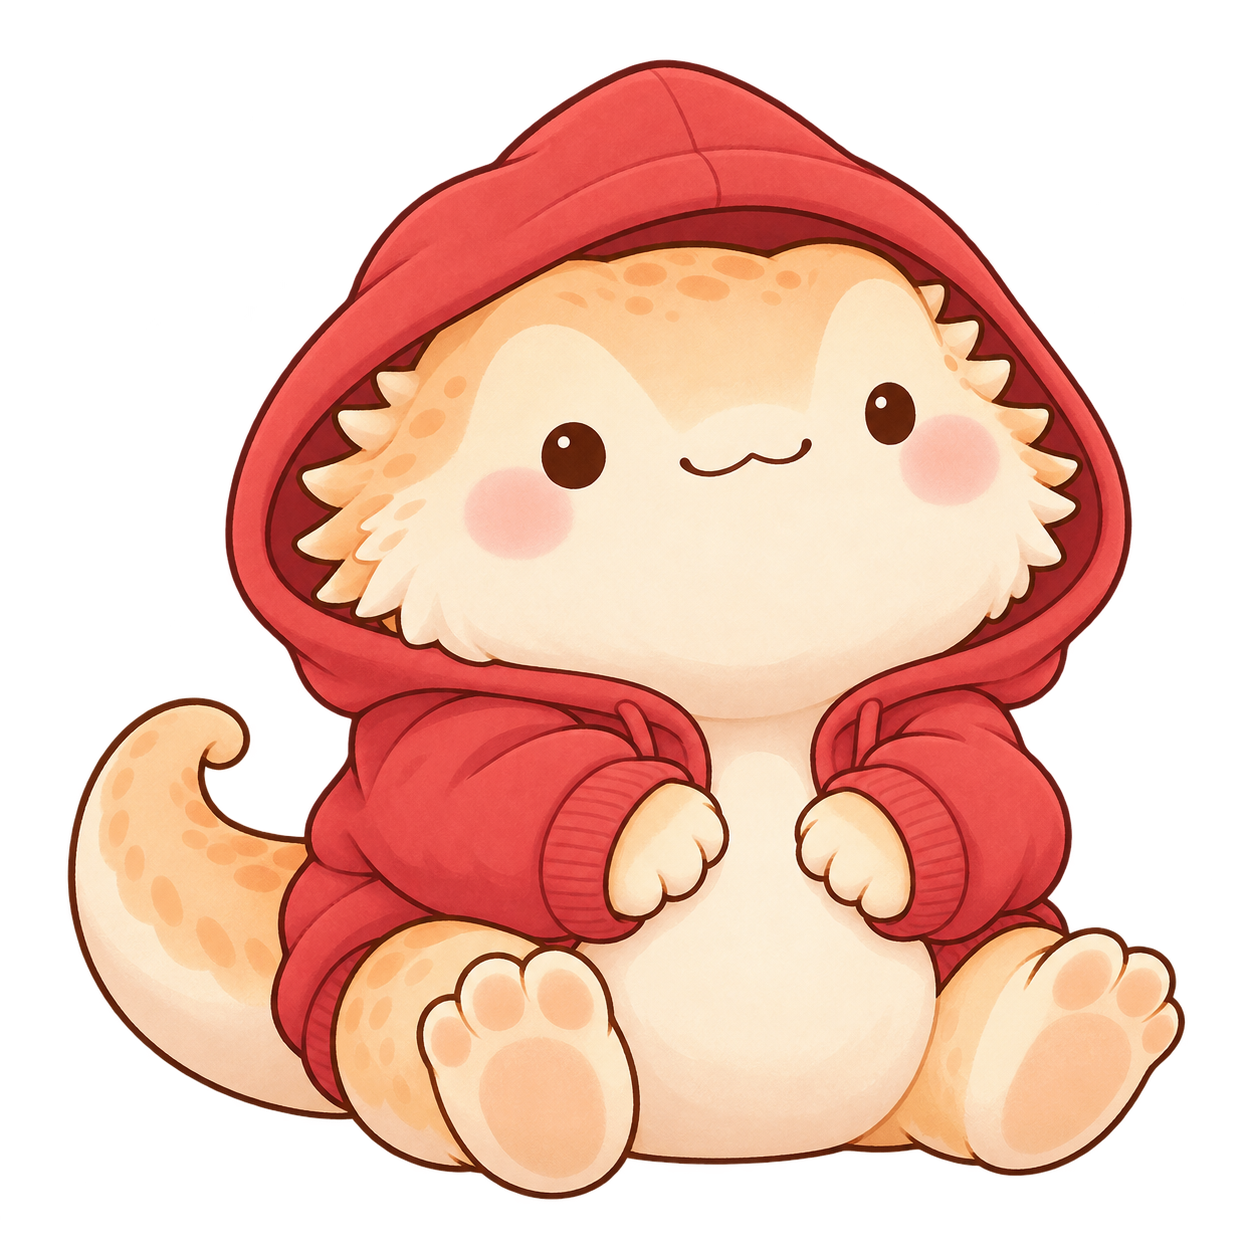
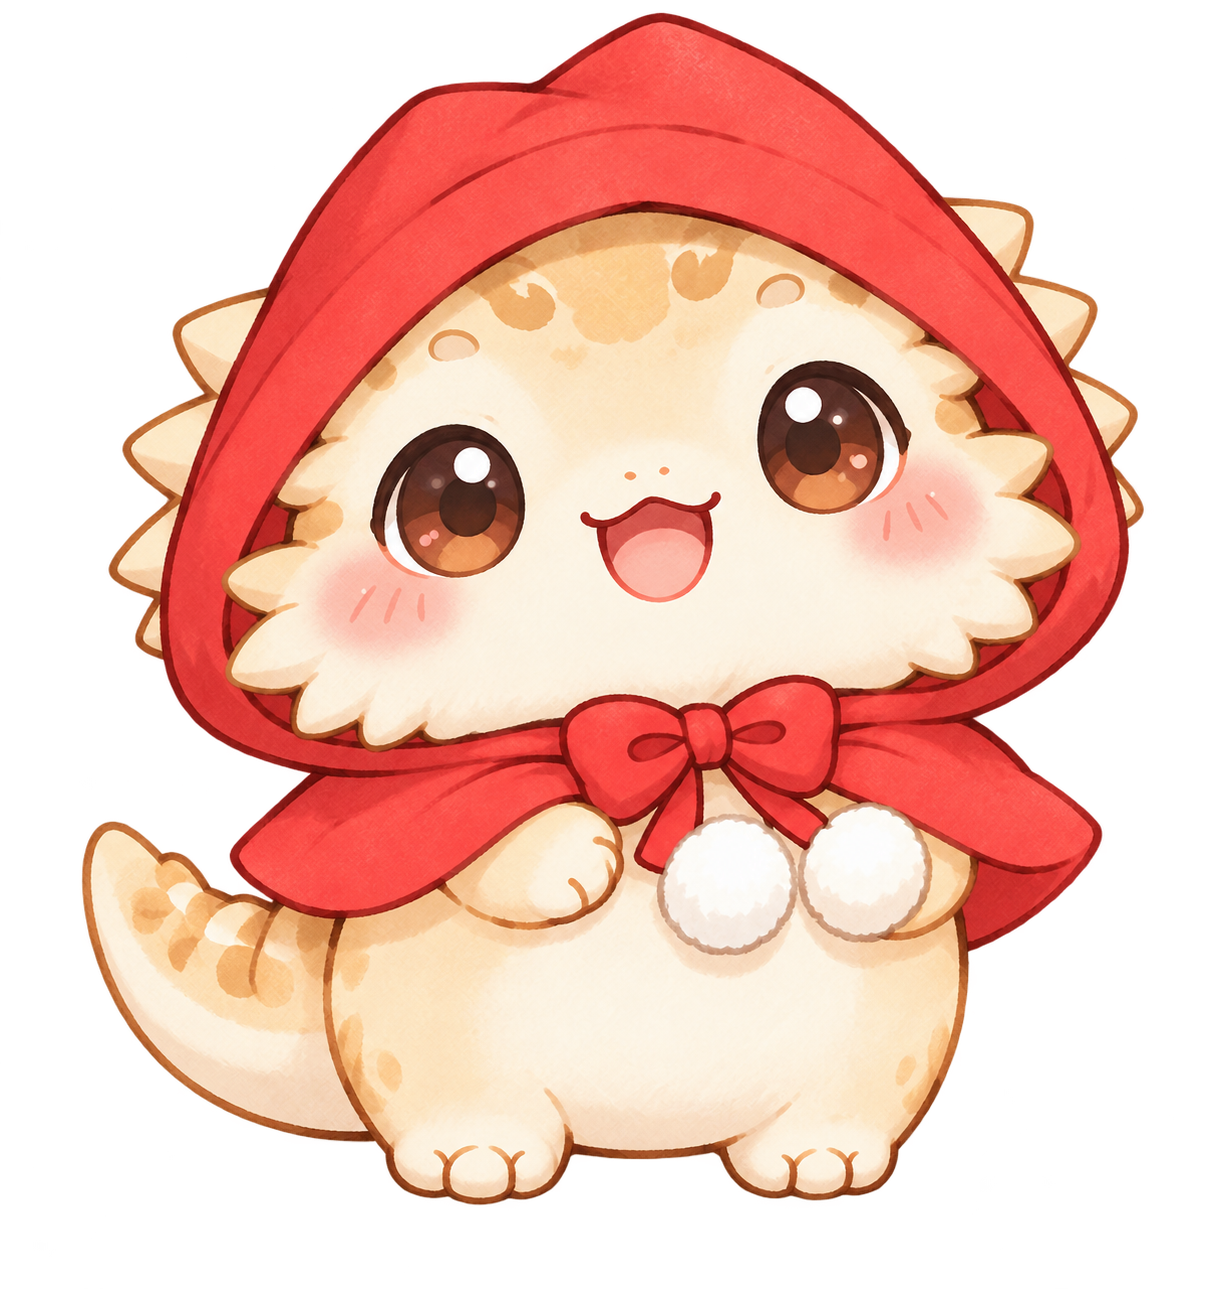
Match Beoydi mascot to supplied red-cape character reference

diff --git a/public/index.html b/public/index.html
@@ -24,7 +24,7 @@
           <p class="intro-description">어디를 여행할지는 나도 몰라요~~~</p>
           <div class="world-stats"><div><strong id="total-stat">135,233</strong><span>개 도시</span></div><span class="stat-line"></span><div><strong id="countries-stat">전 세계</strong><span>개 국가 · 지역</span></div></div>
         </div>
-        <div class="mascot-wrap"><div class="mascot-backdrop" aria-hidden="true"></div><img class="mascot" src="./beoydi.png" alt="빨간 후드를 입고 웃고 있는 둥글고 말랑한 비어디드래곤 비여디" width="240" height="240" fetchpriority="high"><span class="mascot-caption">비여디</span></div>
+        <div class="mascot-wrap"><div class="mascot-backdrop" aria-hidden="true"></div><img class="mascot" src="./beoydi.png?v=reference-1" alt="빨간 후드 망토와 리본, 흰 방울 두 개를 달고 반짝이는 갈색 눈으로 웃는 비어디드래곤 비여디" width="240" height="240" fetchpriority="high"><span class="mascot-caption">비여디</span></div>
       </section>
 
       <section class="picker" aria-labelledby="picker-title">
